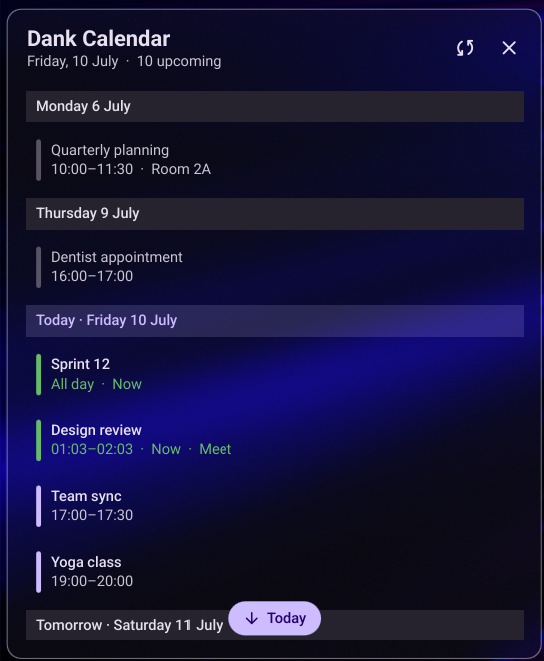
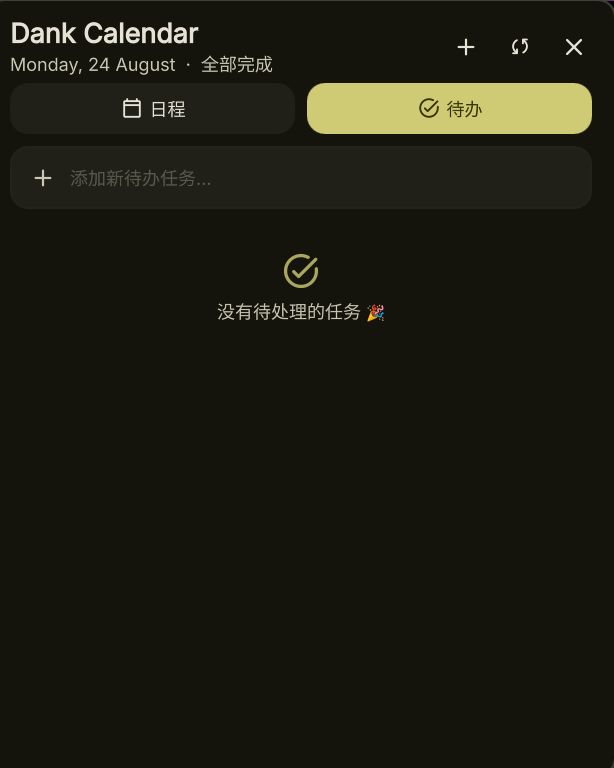
chore: 升级插件元数据为 dankCalendarPlus v2.0.0 并更新封面预览图

diff --git a/DankCalendarWidget.qml b/DankCalendarWidget.qml
@@ -57,8 +57,8 @@ PluginComponent {
     property string timeText: formatTimeRemaining()
     property string compactTimeText: formatCompactTimeRemaining()
     property color timeColor: Theme.primary
-    property string scriptPath: PluginService.pluginDirectory + "/dankCalendarAgendaLocal/get-next-event"
-    property string agendaScriptPath: PluginService.pluginDirectory + "/dankCalendarAgendaLocal/get-agenda-events"
+    property string scriptPath: Qt.resolvedUrl("./get-next-event").toString().replace(/^file:\/\//, "")
+    property string agendaScriptPath: Qt.resolvedUrl("./get-agenda-events").toString().replace(/^file:\/\//, "")
     property int agendaPastDays: pluginData.agendaPastDays ?? 7
     property int agendaFutureDays: pluginData.agendaFutureDays || 30
     property var agendaEvents: []
@@ -76,7 +76,7 @@ PluginComponent {
     }
     readonly property string activeModule: globalActiveModule.value || "agenda"
 
-    property string tasksScriptPath: PluginService.pluginDirectory + "/dankCalendarAgendaLocal/get-tasks"
+    property string tasksScriptPath: Qt.resolvedUrl("./get-tasks").toString().replace(/^file:\/\//, "")
     property var pendingTasks: []
     property var completedTasks: []
     property int pendingTasksCount: 0

diff --git a/DankCalendarSettings.qml b/DankCalendarSettings.qml
@@ -5,11 +5,11 @@ import qs.Modules.Plugins
 
 PluginSettings {
     id: root
-    pluginId: "dankCalendarAgendaLocal"
+    pluginId: "dankCalendarPlus"
 
     StyledText {
         width: parent.width
-        text: "Dank Calendar Extension"
+        text: "Dank Calendar Plus"
         font.pixelSize: Theme.fontSizeLarge
         font.weight: Font.Medium
         color: Theme.surfaceText
